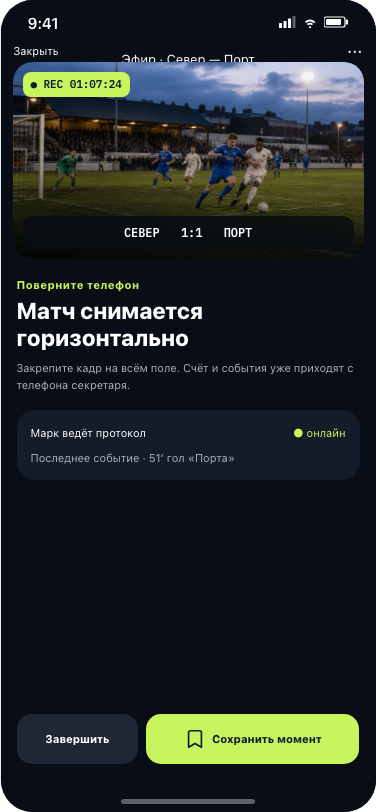
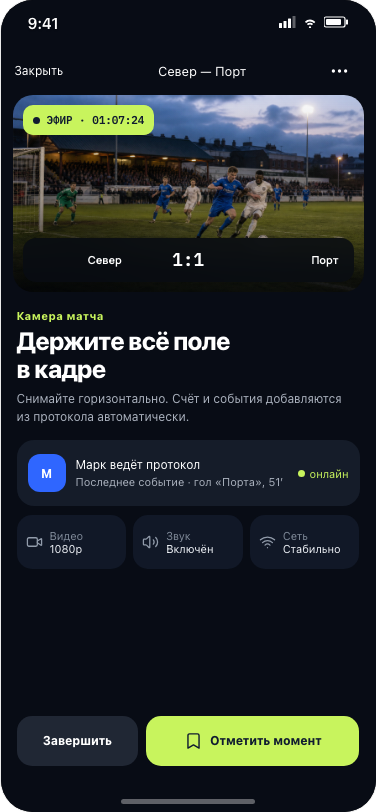
fix: rebuild Liga operator camera screen

diff --git a/platform/concepts/liga/styles.css b/platform/concepts/liga/styles.css
@@ -37,3 +37,6 @@
 .lx-pass{border-radius:22px!important;padding:16px!important}.lx-pass:after{display:none}.lx-pass-top{gap:12px!important}.lx-avatar2{width:52px!important;height:52px!important;border-radius:16px!important}.lx-pass h1{font-size:18px!important;line-height:23px!important;font-weight:760!important;letter-spacing:-.02em}.lx-pass p{font-size:11px!important;line-height:15px!important;margin-top:2px!important}.lx-pass-role{margin-top:15px!important;padding-top:12px!important;display:grid!important;grid-template-columns:1fr 1fr!important;gap:16px!important}.lx-pass-role>div:last-child{text-align:right}.lx-pass-role span,.lx-pass-role strong{display:block!important}.lx-pass-role span{font-size:11px!important;line-height:14px!important;color:#929baa!important}.lx-pass-role strong{font-size:12px!important;line-height:16px!important;margin-top:2px!important;font-weight:700!important}.lx-kpis{margin-top:8px!important;border-radius:17px!important;padding:10px 8px!important;min-height:68px!important;align-items:center}.lx-kpi strong{font-size:14px!important;line-height:18px!important}.lx-kpi span{display:block;font-size:11px!important;line-height:14px!important;margin-top:1px}.lx-profilemenu{border-radius:18px!important;margin-top:8px!important;padding:2px 12px!important}.lx-profilemenu .lx-toolrow{min-height:58px!important;grid-template-columns:38px 1fr 20px!important;gap:10px!important}.lx-profilemenu .lx-toolrow i{width:36px!important;height:36px!important;border-radius:11px!important}.lx-profilemenu .lx-toolrow strong{font-size:12px!important;line-height:16px!important}.lx-profilemenu .lx-toolrow>.lx-icon{width:18px;color:#676e78}
 .lx-followteam{min-width:116px!important;height:56px!important}.lx-followteam .lx-crest{width:40px!important;height:40px!important}.lx-alert{min-height:60px!important}.lx-alert strong{line-height:15px!important}.lx-alert p{line-height:13px!important;margin-top:1px!important}
 .lx-searchpage{padding:4px 16px 24px}.lx-searchfield{height:48px;border-radius:15px;background:#fff;display:flex;align-items:center;gap:10px;padding:0 14px;color:var(--lx-muted);font-size:12px}.lx-searchfield .lx-icon{width:19px}.lx-searchpage .lx-section{margin-top:20px}
+
+/* Operator camera: compact production controls, no overlap with the safe area. */
+.lx-operator{background:#080c15!important}.lx-ophead{height:calc(var(--safe-top) + 48px)!important;padding:var(--safe-top) 14px 0!important;display:grid!important;grid-template-columns:72px minmax(0,1fr) 44px!important;align-items:center!important;flex:none!important}.lx-ophead>span{min-width:0!important;height:44px!important;min-height:44px!important;font-size:12px!important}.lx-ophead>span:last-child{justify-content:center!important}.lx-ophead>strong{margin:0!important;text-align:center!important;white-space:nowrap!important;overflow:hidden!important;text-overflow:ellipsis!important;font-size:13px!important}.lx-ophead .lx-icon{width:21px!important}.lx-camera16{margin:0 12px!important;aspect-ratio:16/9!important;border-radius:20px!important;overflow:hidden!important}.lx-rec{top:10px!important;left:10px!important;display:flex!important;align-items:center!important;gap:7px!important;min-height:30px!important;padding:0 10px!important;border-radius:10px!important;font-size:11px!important}.lx-rec i{width:7px;height:7px;border-radius:50%;background:var(--lx-navy)}.lx-opscore{left:10px!important;right:10px!important;bottom:10px!important;min-height:44px!important;padding:0 15px!important;border-radius:13px!important;display:grid!important;grid-template-columns:1fr auto 1fr!important;align-items:center!important;background:rgba(7,11,18,.82)!important}.lx-opscore span{font:700 11px/14px Manrope,sans-serif;text-transform:none!important}.lx-opscore span:last-child{text-align:right}.lx-opscore b{font:700 18px/22px "IBM Plex Mono",monospace}.lx-opbody{padding:17px 16px 10px!important}.lx-opbody h1{font-size:25px!important;line-height:28px!important;letter-spacing:-.035em!important;margin:4px 0 7px!important}.lx-opbody>p{font-size:12px!important;line-height:18px!important;max-width:330px!important}.lx-sync2{min-height:66px!important;margin-top:14px!important;padding:10px 11px!important;border-radius:17px!important;display:grid!important;grid-template-columns:38px minmax(0,1fr) auto!important;align-items:center!important;gap:10px!important}.lx-sync-avatar{width:38px;height:38px;border-radius:12px;background:var(--lx-blue);display:grid;place-items:center;font-size:12px;font-weight:800}.lx-sync2 strong{display:block;font-size:12px!important;line-height:16px!important}.lx-sync2 p{font-size:11px!important;line-height:14px!important;margin:2px 0 0!important}.lx-sync2>span{display:flex;align-items:center;gap:5px;color:var(--lx-lime);font-size:11px}.lx-sync2>span i{width:7px;height:7px;border-radius:50%;background:var(--lx-lime)}.lx-camstats{display:grid;grid-template-columns:repeat(3,1fr);gap:7px;margin-top:9px}.lx-camstats>div{min-height:54px;border-radius:15px;background:#111827;display:flex;align-items:center;gap:7px;padding:0 9px}.lx-camstats .lx-icon{width:17px;color:#929cab;flex:none}.lx-camstats span{font-size:11px;line-height:13px;color:#7f8998}.lx-camstats strong{display:block;font-size:11px;line-height:13px;color:#eef1f6}.lx-opfoot{margin-top:auto!important;padding:10px 16px calc(var(--safe-bottom) + 12px)!important;grid-template-columns:.8fr 1.4fr!important;gap:8px!important}.lx-opbtn{min-height:50px!important;border-radius:15px!important;font-size:12px!important}.lx-opbtn.primary{gap:7px!important}.lx-opbtn.primary .lx-icon{width:19px!important}

diff --git a/platform/concepts/liga/screens/camera.html b/platform/concepts/liga/screens/camera.html
@@ -1,1 +1,1 @@
-<div class="screen lx-screen lx-operator" id="scr-camera"><div class="lx-ophead"><span data-go="create">Закрыть</span><strong>Эфир · Север — Порт</strong><span data-toast="Настройки эфира открыты">•••</span></div><div class="lx-camera16"><div class="lx-rec">● REC 01:07:24</div><div class="lx-opscore">СЕВЕР&nbsp;&nbsp; 1:1 &nbsp;&nbsp;ПОРТ</div></div><div class="lx-opbody"><div class="lx-eyebrow">Поверните телефон</div><h1>Матч снимается горизонтально</h1><p>Закрепите кадр на всём поле. Счёт и события уже приходят с телефона секретаря.</p><div class="lx-sync2"><header><strong>Марк ведёт протокол</strong><span>● онлайн</span></header><p>Последнее событие · 51′ гол «Порта»</p></div></div><div class="lx-opfoot"><div class="lx-opbtn" data-go="publish">Завершить</div><div class="lx-opbtn primary" data-toast="Момент отмечен · 67:24"><svg class="lx-icon"><use href="#i-bookmark"/></svg>Сохранить момент</div></div><div class="home-ind light"></div></div>
+<div class="screen lx-screen lx-operator" id="scr-camera"><div class="lx-ophead"><span data-go="create">Закрыть</span><strong>Север — Порт</strong><span data-toast="Настройки эфира открыты" aria-label="Настройки эфира"><svg class="lx-icon"><use href="#i-ellipsis"/></svg></span></div><div class="lx-camera16"><div class="lx-rec"><i></i>ЭФИР · 01:07:24</div><div class="lx-opscore"><span>Север</span><b>1:1</b><span>Порт</span></div></div><div class="lx-opbody"><div class="lx-eyebrow">Камера матча</div><h1>Держите всё поле<br>в кадре</h1><p>Снимайте горизонтально. Счёт и события добавляются из протокола автоматически.</p><div class="lx-sync2"><div class="lx-sync-avatar">М</div><div><strong>Марк ведёт протокол</strong><p>Последнее событие · гол «Порта», 51′</p></div><span><i></i>онлайн</span></div><div class="lx-camstats"><div><svg class="lx-icon"><use href="#i-video"/></svg><span>Видео<strong>1080p</strong></span></div><div><svg class="lx-icon"><use href="#i-volume-2"/></svg><span>Звук<strong>Включён</strong></span></div><div><svg class="lx-icon"><use href="#i-wifi"/></svg><span>Сеть<strong>Стабильно</strong></span></div></div></div><div class="lx-opfoot"><div class="lx-opbtn" data-go="publish">Завершить</div><div class="lx-opbtn primary" data-toast="Момент отмечен · 67:24"><svg class="lx-icon"><use href="#i-bookmark"/></svg>Отметить момент</div></div><div class="home-ind light"></div></div>
